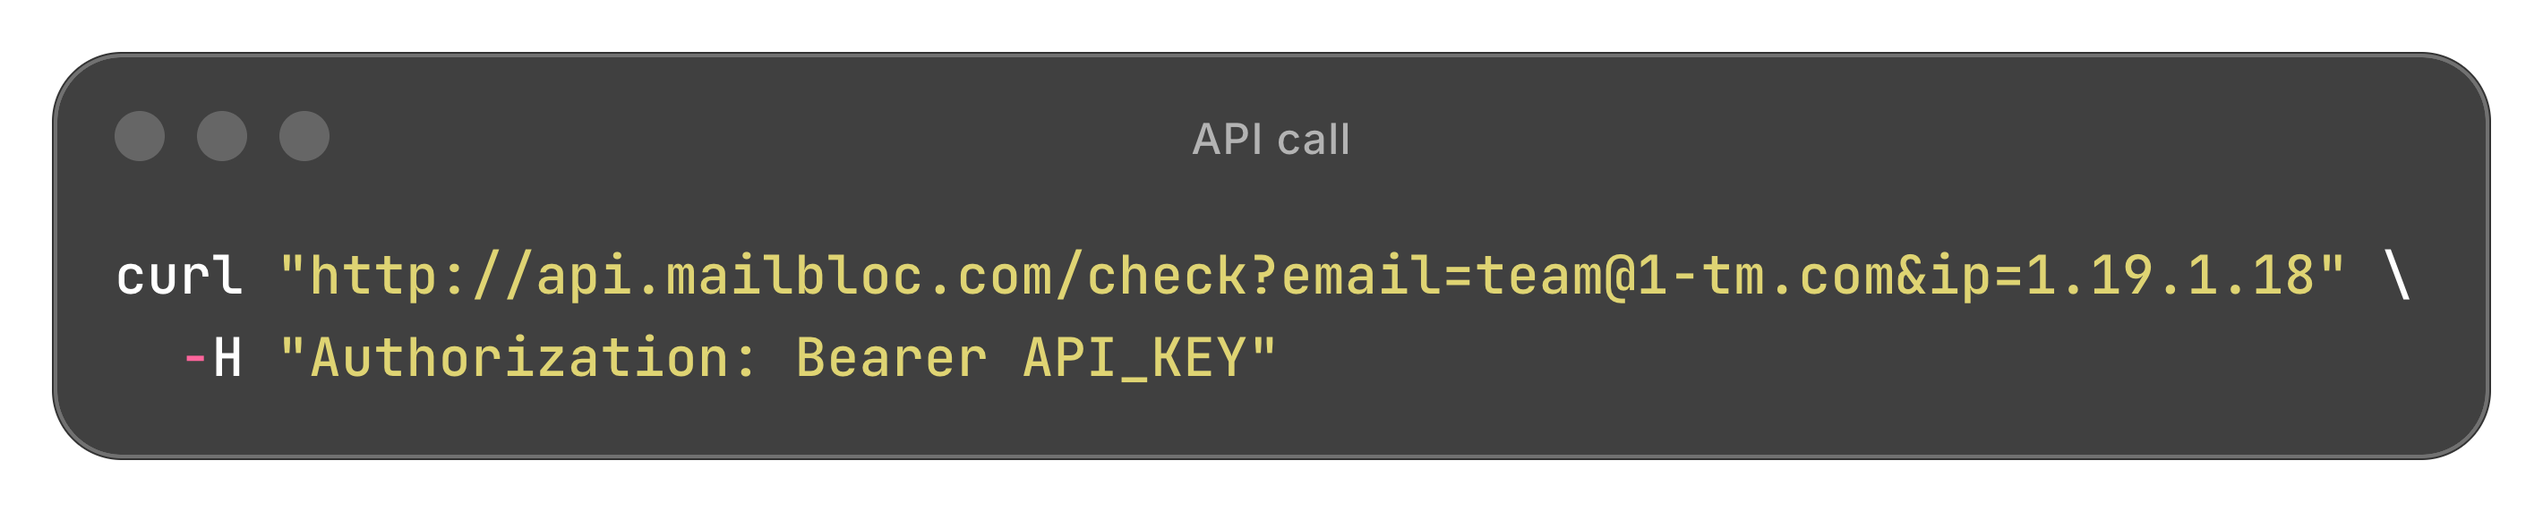
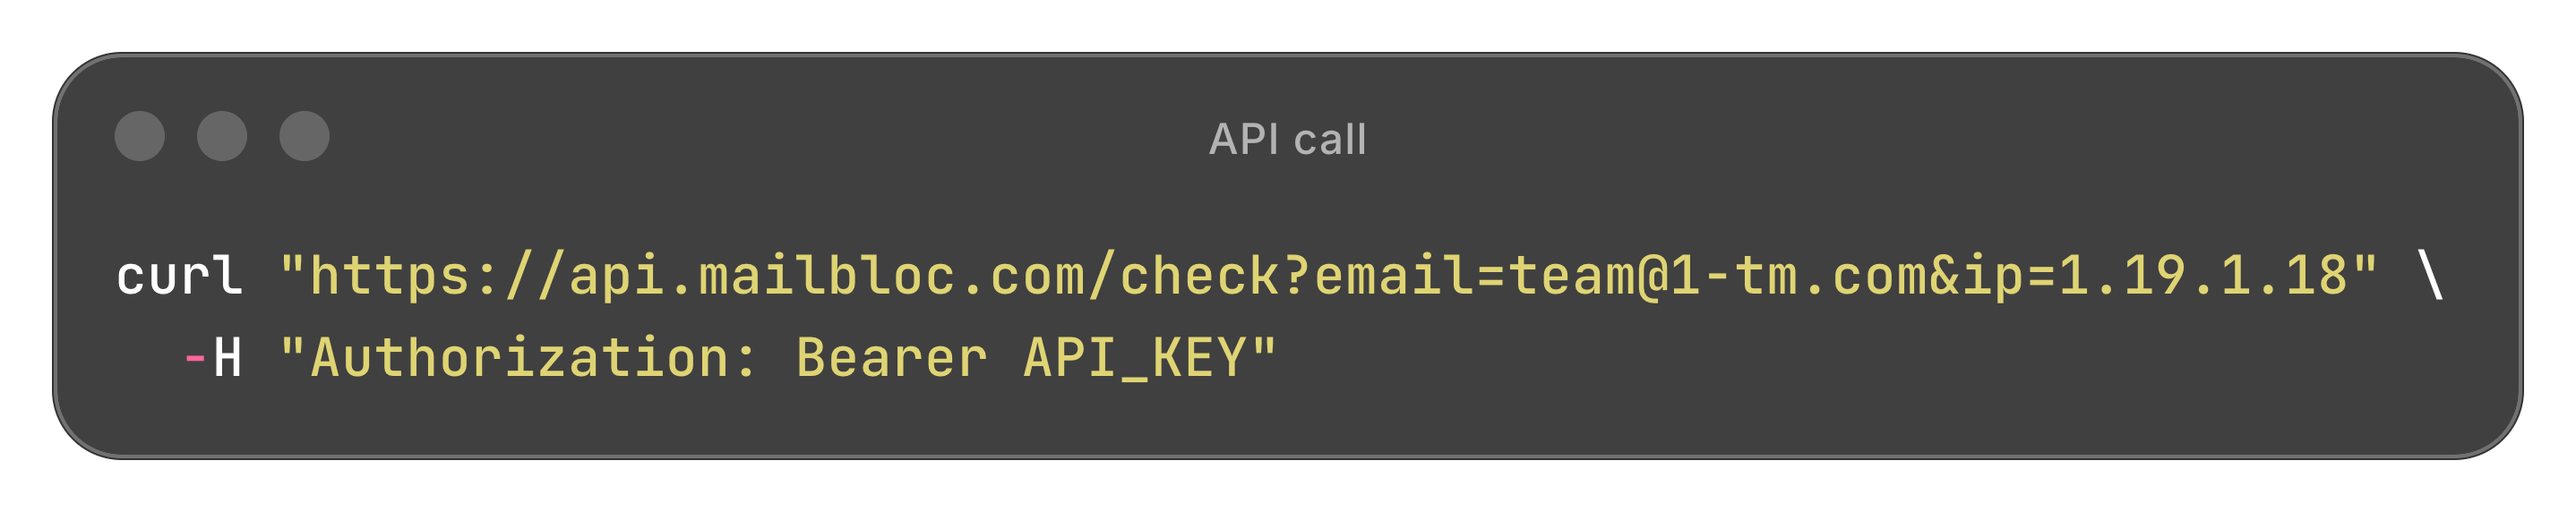
Update image and read for using https

Changed region(s): [[0.031, 0.4755, 0.9296, 0.5944], [0.062, 0.6538, 0.4958, 0.743], [0.4648, 0.2378, 0.4958, 0.2972]]

diff --git a/README.md b/README.md
@@ -8,10 +8,17 @@ To start your Phoenix server:
 Now you can visit [`localhost:4000`](http://localhost:4000) from your browser.
 
 # API call
+
+## Dev
 ```
 $ curl "http://api.localhost:4000/check?email=team@1-tm.com&ip=1.19.1.18" -H "Authorization: Bearer 1e2878119f4ef3288695c73d5c01b105ee12d50a9f92b00136f6a46e65f7b2c0"
 
 {"risk_level":"high","reasons":["disposable_email","criminal_network_ip"]}
+```
+
+## Prod
+```
+curl "https://api.mailbloc.com/check?email=team@1-tm.com&ip=1.19.1.18" -H "Authorization: Bearer 1e2878119f4ef3288695c73d5c01b105ee12d50a9f92b00136f6a46e65f7b2c0"
 ```
 
 # Check status
